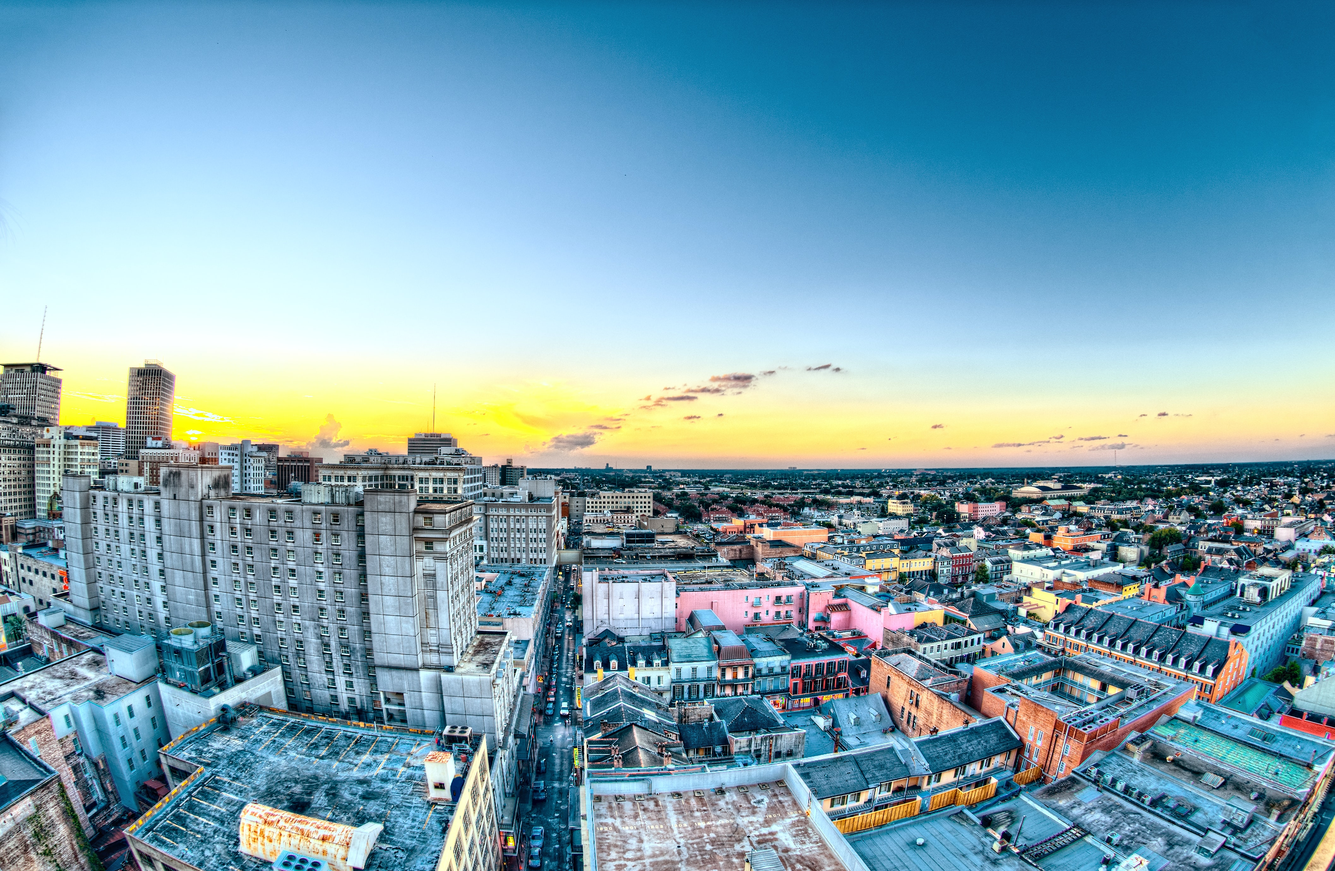
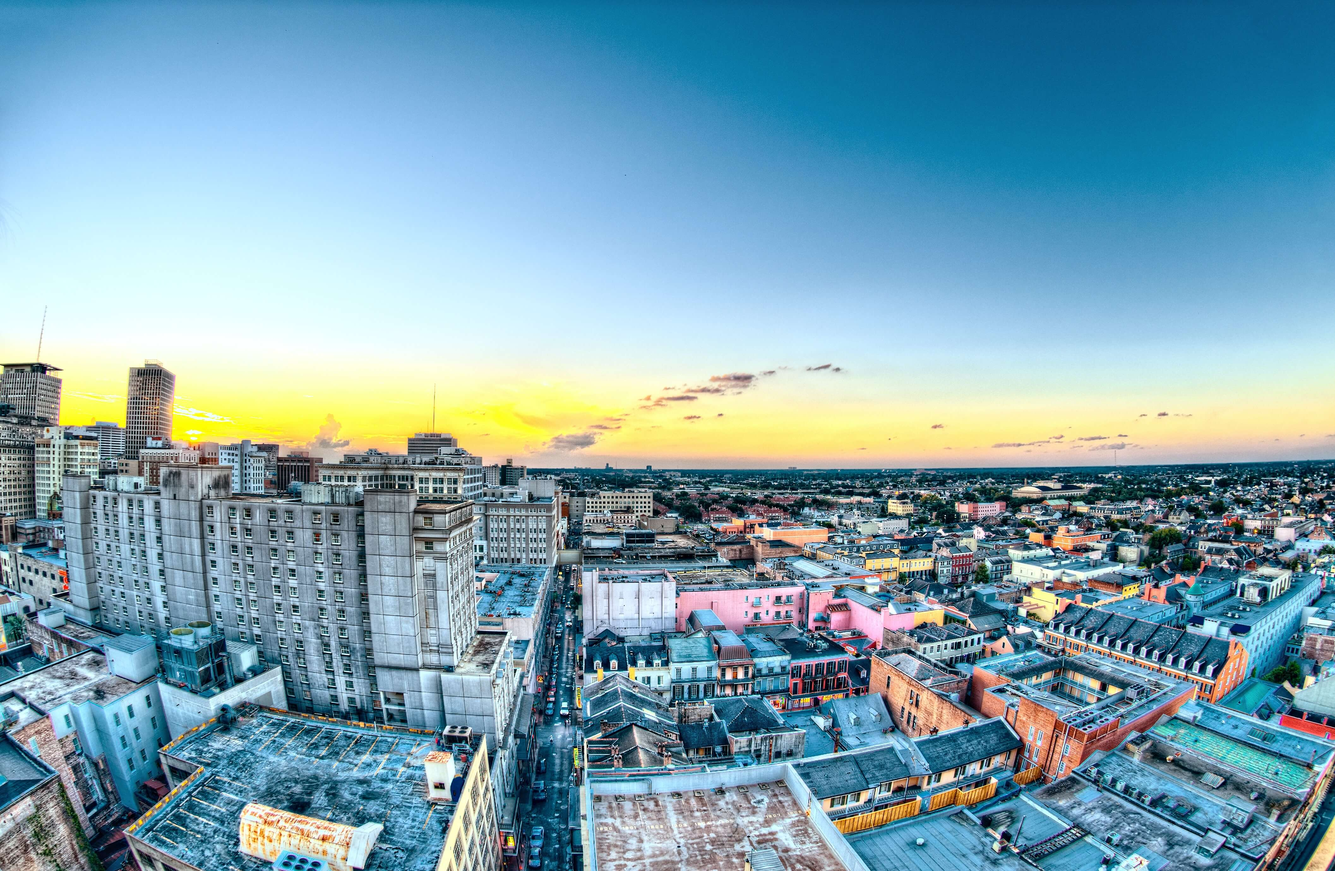
optimized images and readme

Changed region(s): [[0.7805, 0.7167, 0.8117, 0.7478], [0.5932, 0.779, 0.6244, 0.8101], [0.1249, 0.4674, 0.1561, 0.4986]]

diff --git a/README.md b/README.md
@@ -1,17 +1,25 @@
 # Проект: Место
 
-### Обзор
+**Интро**
 
-* Figma
-* Картинки
+_Учебная страница для изучения web технологий. Проект предназначен для того чтобы получить необходимые знания по адаптивной верстке и javascript в web разработке. Сайт состоит из нескольких блоков(секций) и небольшого скрипта, делая эту работу ученик Яндекс практикума постигает новые знания =)_
+
+## Ссылка на сайт
+* [Ссылка на сайт]()
+
+## Технологии используемые для создания проекта
+
+* HTML
+    * BEM
+* CSS
+    * Flex box
+    * Grid Layout
+    * media запросы
+    * absolute position
+* JavaScript
+    * DOM
+    * Functions
 
 **Figma**
 
 * [Ссылка на макет в Figma](https://www.figma.com/file/2cn9N9jSkmxD84oJik7xL7/JavaScript.-Sprint-4?node-id=0%3A1)
-
-**Картинки**
-
-Доставать картинки предстоит из Фигмы. Это расхожая практика, поэтому полезно потренироваться.
-Не забудьте [оптимизировать картинки](https://tinypng.com/), чтобы ваш сайт загружался быстрее.
-
-Удачи!
